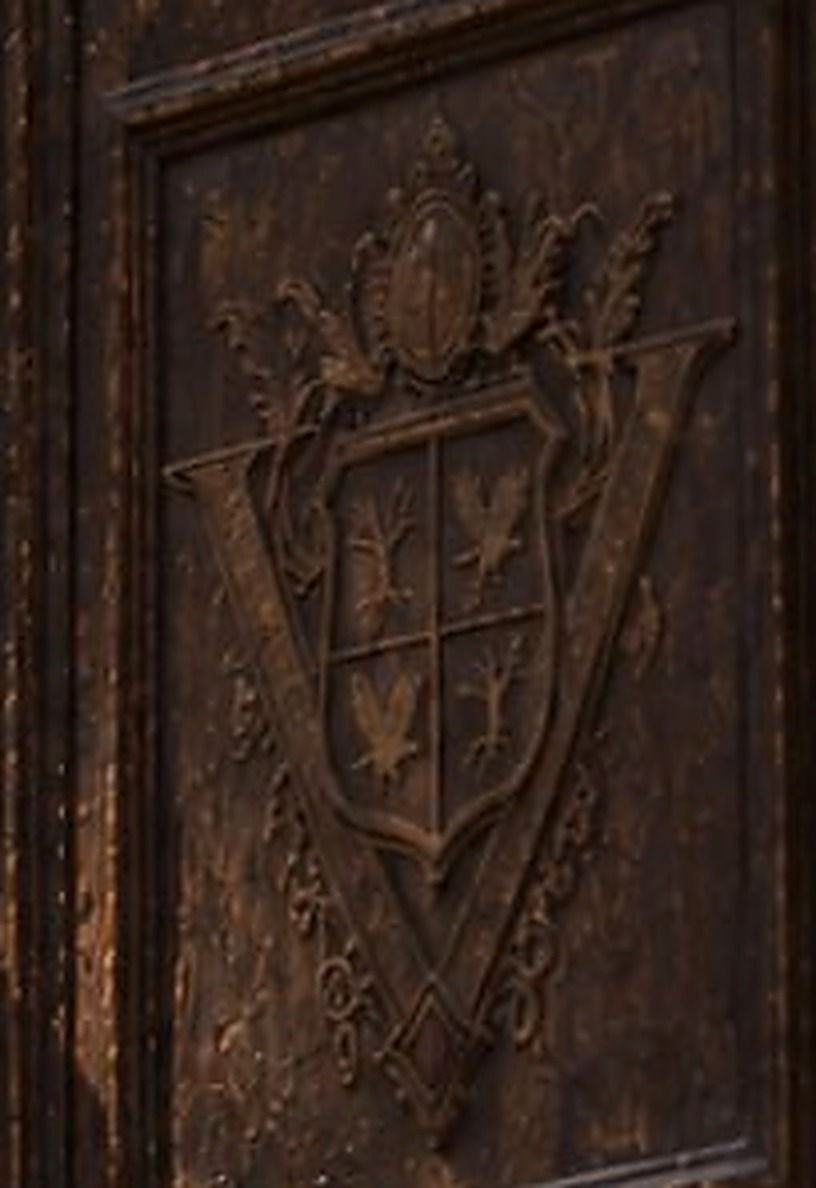
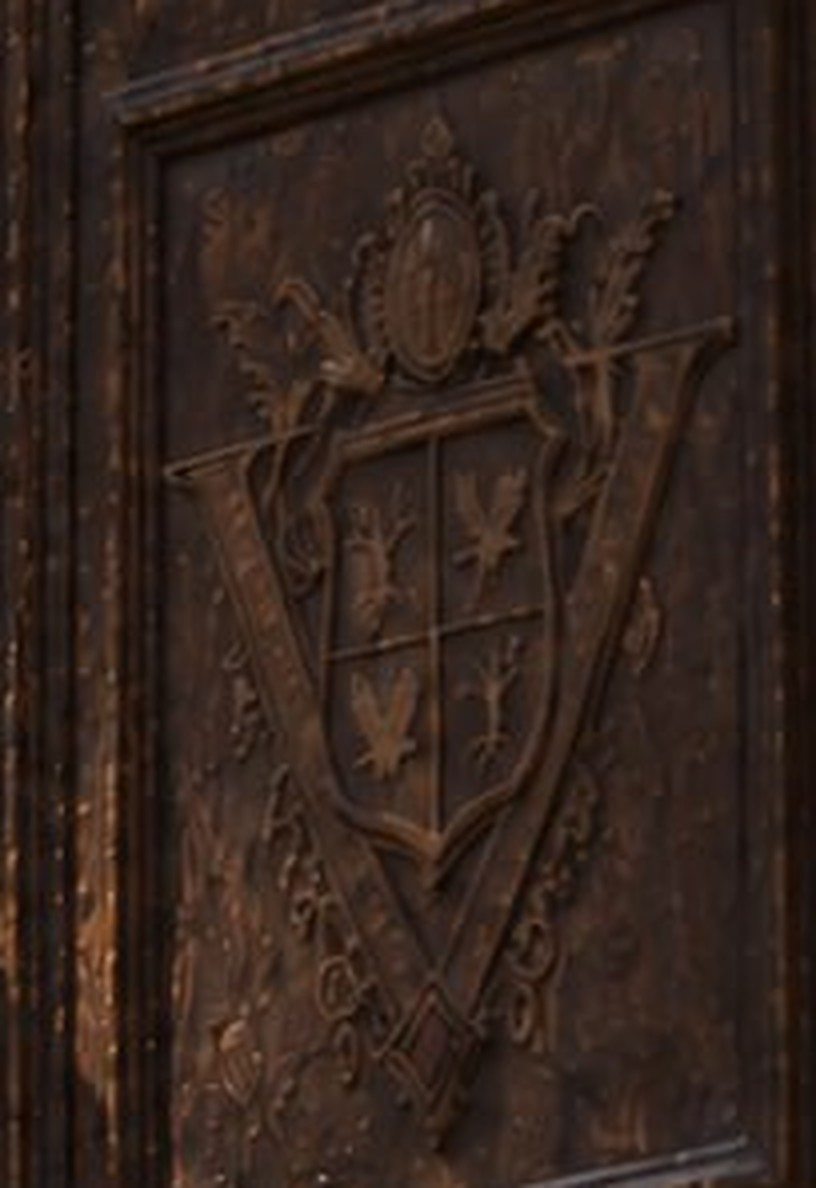
laptop: new VOLTERRA photos 1-5 + symbol re-cut from new 5; pano: door evidence = new photo 5 (Maria 09.10 17:30)

diff --git a/laptop/index.html b/laptop/index.html
@@ -120,7 +120,7 @@
   </ul></div>
 </div></div>
 <div id="viewer"><div id="vbox"><img id="vimg" src="sarah.jpg" alt=""><div id="vsym"></div></div><div id="vcap"></div><div id="vclose">✕</div><div class="nav" id="prev">‹</div><div class="nav" id="next">›</div><div id="counter"></div></div>
-<div id="zoom"><img src="symbol.jpg" alt=""><div id="zcap">Bu sembolü daha önce görmüştüm!</div><div id="zclose">✕</div></div>
+<div id="zoom"><img src="symbol.jpg?v=2" alt=""><div id="zcap">Bu sembolü daha önce görmüştüm!</div><div id="zclose">✕</div></div>
 <div id="mute" title="Ses">🔊</div>
 <script>
 const PASSWORD = 'glacier1986';            // case does not matter: Glacier1986 / GLACIER1986 / glacier1986
@@ -241,7 +241,7 @@ document.addEventListener('keydown', e => {
 });
 /* VOLTERRA folder: files 1..5 (her order); double-click opens the photo, arrows/click go to the next one */
 const vwin = document.getElementById('vwin'), owin = document.getElementById('owin');
-const VOL = ['v1.jpg','v2.jpg','v3.jpg','v4.jpg','v5.jpg'];   // Maria 05.10 14:44: corrected order
+const VOL = ['v1.jpg?v=2','v2.jpg?v=2','v3.jpg?v=2','v4.jpg?v=2','v5.jpg?v=2'];   // Maria 09.10 17:30: new photos   // Maria 05.10 14:44: corrected order
 const VOL_CAPS = ['Burası İtalya mı?', 'Burası İtalya mı?', 'Burası İtalya mı?', 'Bu da ne?', 'Bir dakika, bu çok tuhaf...'];
 let zTop = 10; function front(w) { w.classList.add('open'); w.style.zIndex = ++zTop; }
 [win, vwin, owin].forEach(w => w.addEventListener('mousedown', () => { w.style.zIndex = ++zTop; }, true));

diff --git a/pano/index.html b/pano/index.html
@@ -189,7 +189,7 @@ const S1_PHOTO = { top:52.5, w:11, h:11 }, S1_NOTE = { top:65, w:17, h:13 };
 const S2_EVIDENCE = [
   { id:'pendant', g:1, src:'s2_pendant.png?v=2', hover:"Uçurumun yanında bulduğumuz kolye" },
   { id:'city',    g:1, src:'s2_city.jpg',    hover:"Volterra, İtalya'da bir kasaba" },
-  { id:'door',    g:1, src:'s2_door.jpg',    hover:"Volterra'da bir binanın kapısında bulunan gizemli sembol" },
+  { id:'door',    g:1, src:'s2_door.jpg?v=2',    hover:"Volterra'da bir binanın kapısında bulunan gizemli sembol" },
   { id:'bald',    g:2, src:'s2_bald.png',    hover:"Nathan Whitmore, kanser hastası ünlü eksantrik milyarder" },
   { id:'letter',  g:2, src:'s2_letter.jpg',  hover:"Nathan'ın David'e gönderdiği email, 2002 yılına ait", doc:true },
   { id:'news',    g:3, src:'s2_news.jpg',    hover:"Sarah'ın kayboluşu ile ilgili gazete yazısı, 1986 yılına ait", doc:true },
